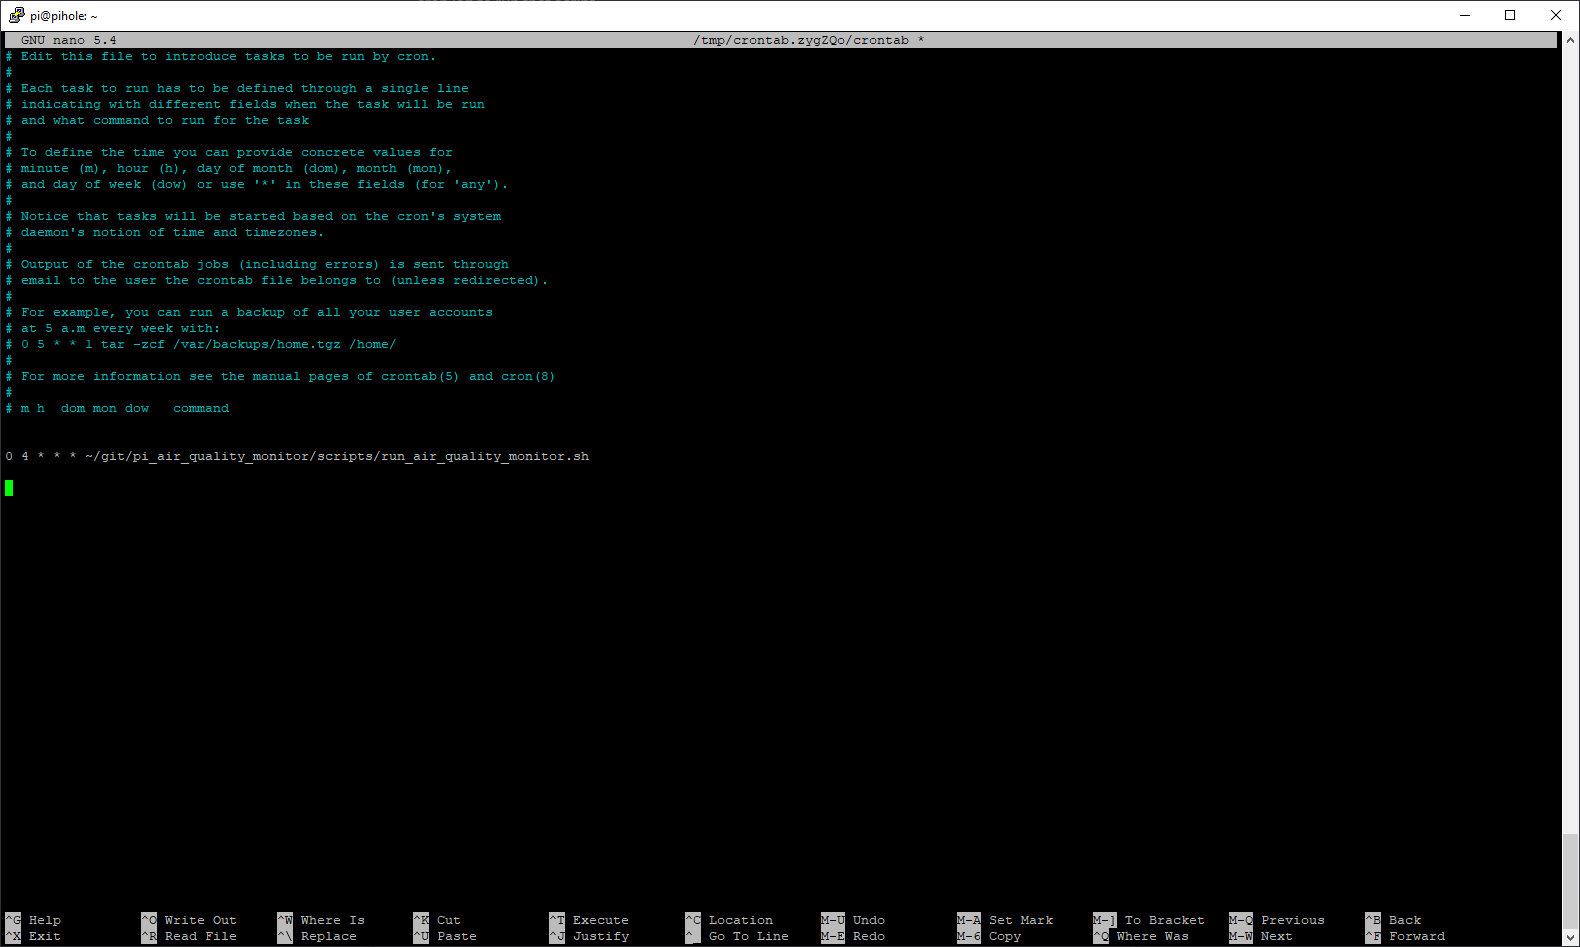
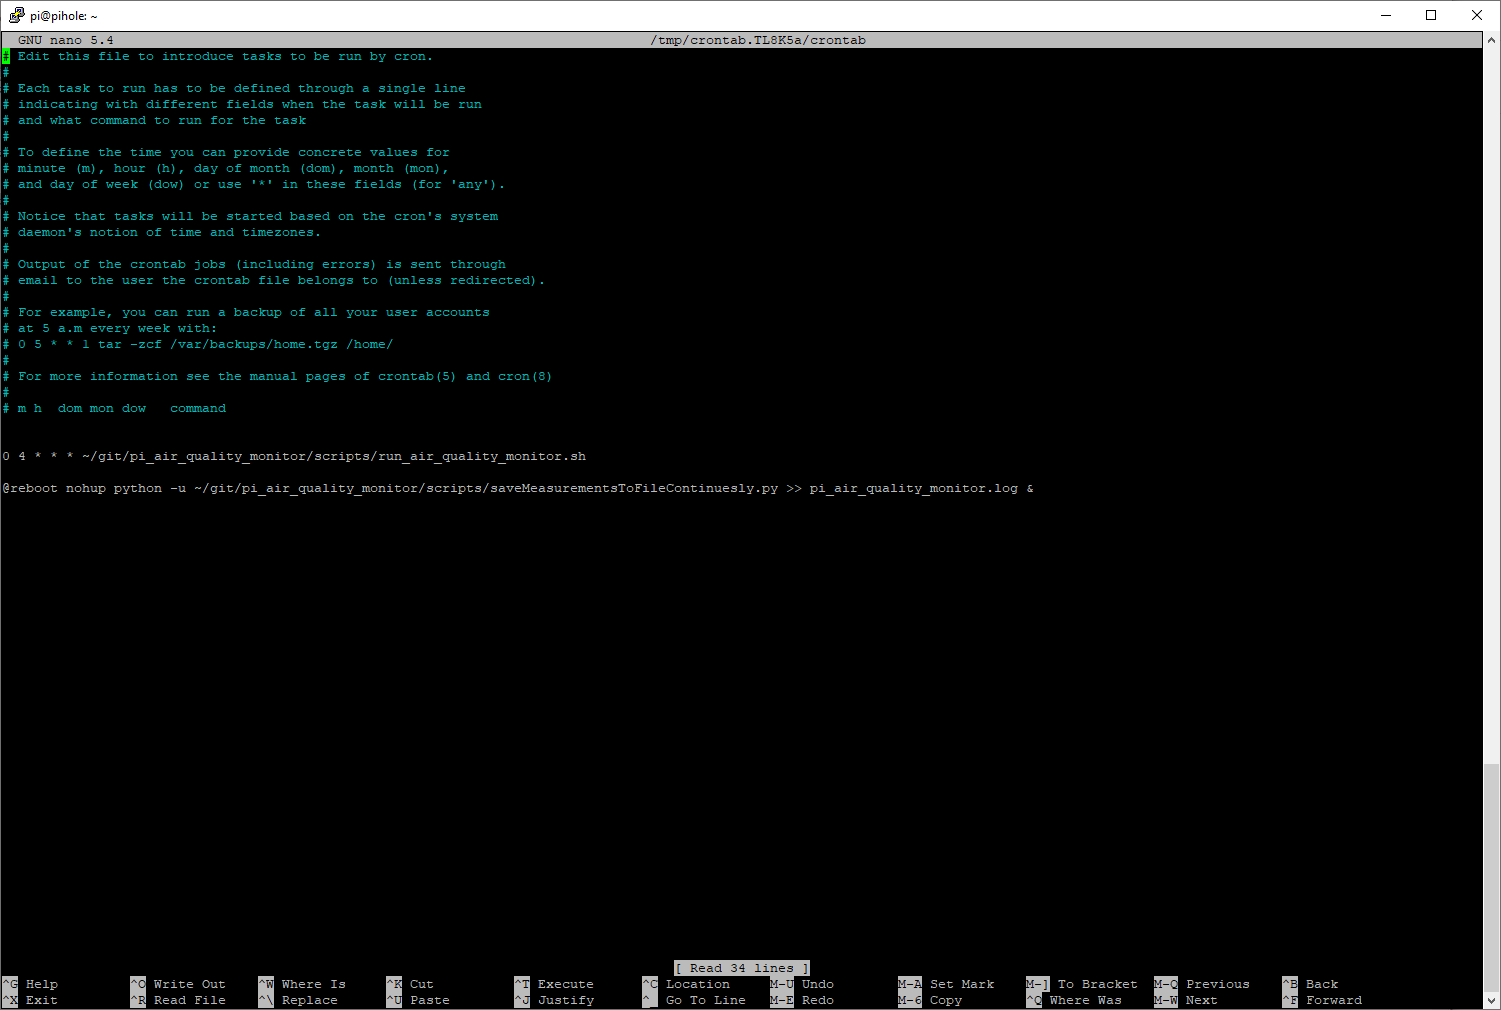
update to readme

diff --git a/README.md b/README.md
@@ -145,16 +145,19 @@ chmod +x run_air_quality_monitor.sh
 ```
 
 6. Open the terminal and type **crontab -e**. This command opens the cron table for the current user in the default text
-   editor.
+   editor. (note, this is crontab -e for the current user, not sudo crontab -e.)
 7. Add the following line to the file:
 
 ```bash
 0 4 * * * ~/git/pi_air_quality_monitor/scripts/run_air_quality_monitor.sh
 
-@reboot nohup python -u ~/git/pi_air_quality_monitor/scripts/saveMeasurementsToFileContinuesly.py >> pi_air_quality_monitor.log &
+@reboot nohup python -u ~/git/pi_air_quality_monitor/scripts/saveMeasurementsToFileContinuesly.py >> ~/pi_air_quality_monitor.log &
 ```
+8. This will run the run_air_quality_monitor.sh script every night at 04:00. This will upload all measurements from the
+   .CSV file to the SQL Database (for the previous day). Second, it will run the saveMeasurementsToFileContinuesly.py script on reboot. 
+   This will run continuously and save measurements to a .CSV file every minute.
 
-8. Make sure the path is correct. Save the file and exit the editor.
+9. Make sure the path is correct. Save the file and exit the editor.
 
 ![image](wiki/crontab.PNG)
 
